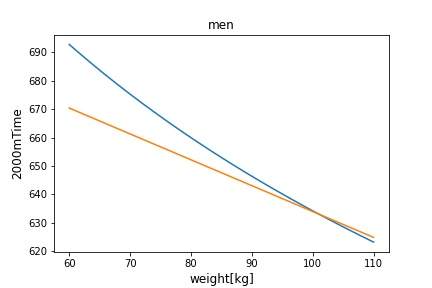
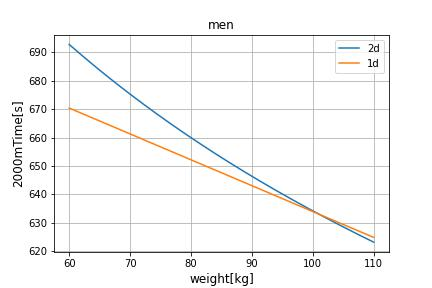
リファクタリング

diff --git a/py/prognostic_times.py b/py/prognostic_times.py
@@ -9,12 +9,9 @@ def speed(x):
     return 2000 / x
 
 def plot_trends(df, boat_type):
-    # p = df['2000m'].quantile(0.046)
+    # 外れ値の除去
     q = df['2000m'].quantile(0.954)
     df = df[(df['2000m'] < q)]
-    # p = df['2000m'].quantile(0.046)
-    # q = df['2000m'].quantile(0.954)
-    # df = df[(df['2000m'] < q) & (df['2000m'] > p)]
 
     x = df.loc[:, 'year']
     y = df.loc[:, '2000m']
@@ -28,6 +25,7 @@ def plot_trends(df, boat_type):
     y2 = np.poly1d(res2)(x) #2次
     y3 = np.poly1d(res3)(x) #3次
 
+    # 2022年の推定値
     PT_1 = np.poly1d(res1)(2022)
     PT_2 = np.poly1d(res2)(2022)
     PT_3 = np.poly1d(res3)(2022)
@@ -38,7 +36,7 @@ def plot_trends(df, boat_type):
     plt.plot(x, y3, label='3d')
     plt.xticks(np.arange(2000, 2023, 2))
     plt.title(boat_type + " trends")
-    plt.xlabel('yaer', fontsize=12)  # x軸ラベル
+    plt.xlabel('year', fontsize=12)  # x軸ラベル
     plt.ylabel('speed[m/s]', fontsize=12)  # y軸ラベル
     plt.grid()
     plt.legend()
@@ -65,8 +63,6 @@ pd.set_option('display.max_rows', None)
 winner = final_df.groupby(['boat_type', 'year'], as_index=False)['2000m'].min()
 boat_types = (winner['boat_type'].unique())
 
-
-
 winner = winner.append({'boat_type': 'm1x', 'year': 2021, '2000m': 437.1}, ignore_index=True)
 winner = winner.append({'boat_type': 'm2x', 'year': 2021, '2000m': 402.6}, ignore_index=True)
 winner = winner.append({'boat_type': 'm2-', 'year': 2021, '2000m': 423.1}, ignore_index=True)
@@ -77,13 +73,10 @@ winner = winner.append({'boat_type': 'm8+', 'year': 2021, '2000m': 355.5}, ignor
 winner = winner.append({'boat_type': 'w1x', 'year': 2021, '2000m': 497.8}, ignore_index=True)
 winner = winner.append({'boat_type': 'w2x', 'year': 2021, '2000m': 442.2}, ignore_index=True)
 winner = winner.append({'boat_type': 'w2-', 'year': 2021, '2000m': 473.7}, ignore_index=True)
-winner = winner.append({'boat_type': 'w4x', 'year': 2021, '2000m': 407}, ignore_index=True)
+winner = winner.append({'boat_type': 'w4x', 'year': 2021, '2000m': 407},   ignore_index=True)
 winner = winner.append({'boat_type': 'w4+', 'year': 2021, '2000m': 443.2}, ignore_index=True)
 
-print(winner)
-
 dict = {}
-
 
 for v in boat_types:
     boat = winner[winner['boat_type'] == v]
@@ -95,10 +88,9 @@ for v in boat_types:
 dict["w4x"] = round((dict["m4x"] + (dict["w2x"] - dict["m2x"])), 1)
 dict["w4+"] = round((dict["m4+"] + (dict["w2x"] - dict["m2x"])), 1)
 
-# print(dict)
 for k in dict.keys():
     dict[k] = sec_to_time(dict[k])
 
 pt_df = pd.DataFrame.from_dict(dict, orient="index", columns=["PT"])
-pt_df.to_csv('./../dst/trends/PT_time.csv')
-# diff_df.sort_values('diff').to_csv('./../dst/trends/diff_PT.csv')
+print(pt_df)
+# pt_df.to_csv('./../dst/trends/PT_time.csv')

diff --git a/py/plot.py b/py/plot.py
@@ -4,10 +4,12 @@ import matplotlib.pyplot as plt
 x = np.linspace(60, 110, 1000)
 plt.figure(0)
 plt.plot(x, 633.07*((x+22)/123)**(-2/9), label='2d')
-plt.plot(x, 633.07 + (101-x) * 0.91, label='1d')
+plt.plot(x, 633.07 + (101-x) * 0.91, label='%IDT check tool by weight')
 plt.title("men")
 plt.xlabel('weight[kg]', fontsize=12) 
-plt.ylabel('2000mTime', fontsize=12) 
+plt.ylabel('2000mTime[s]', fontsize=12) 
+plt.grid()
+plt.legend()
 plt.savefig('./../dst/weight/men.jpg')
 plt.figure()
 
@@ -17,6 +19,6 @@ plt.plot(x, 633.07*((x+22)/123)**(-2/9), label='2d')
 plt.plot(x, 633.07 + (100-x) * 1.4, label='1d')
 plt.title("women")
 plt.xlabel('weight[kg]', fontsize=12) 
-plt.ylabel('2000mTime', fontsize=12) 
+plt.ylabel('2000mTime[s]', fontsize=12) 
 plt.savefig('./../dst/weight/women.jpg')
 plt.figure()

diff --git a/README.md b/README.md
@@ -1,0 +1,1 @@
+# rowing analysis tool
